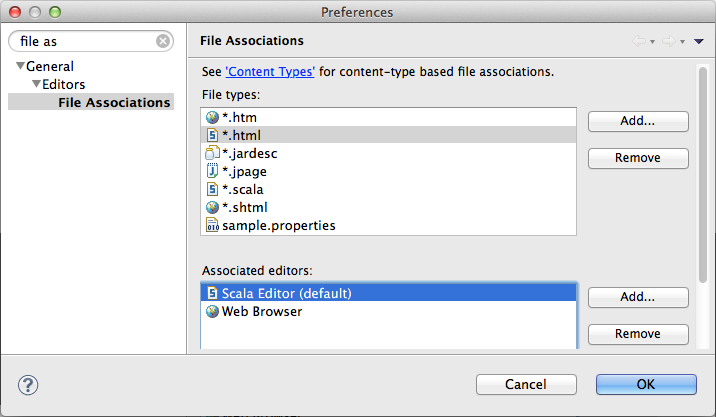
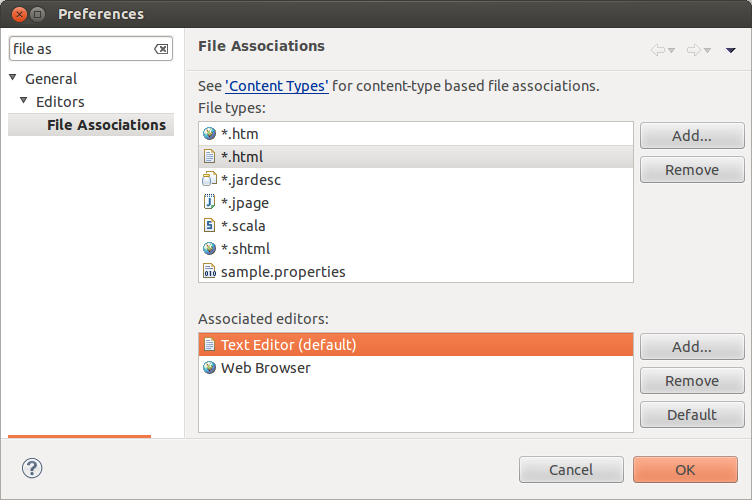
Update play tutorial to not use the Scala editor
It is not working anymore in Scala IDE 2.1.
Modified the step to use the Text Editor instead.

Changed region(s): [[0.0, 0.0, 1.0, 0.9664], [0.0, 0.9664, 1.0, 1.0], [0.0, 0.8417, 0.2151, 0.9664]]

diff --git a/src/sphinx/tutorials/play20scalaide20/index-fr.rst b/src/sphinx/tutorials/play20scalaide20/index-fr.rst
@@ -129,7 +129,7 @@ Changer quelques préférences dans Eclipse va permettre de rendre son utilisati
        :width: 100%
        :target: ../../_images/play20-scalaide20-13.png
 
-*   Si vous n'avez pas la version *Web Development Tools* d'Eclipse installée, Eclipse ouvre les fichiers ``.html`` dans un navigateur. Configurer Eclipse pour qu'il utilise le ``Scala Editor`` à la place.
+*   Si vous n'avez pas la version *Web Development Tools* d'Eclipse installée, Eclipse ouvre les fichiers ``.html`` dans un navigateur. Configurer Eclipse pour qu'il utilise le ``Text Editor`` à la place.
 
     .. image:: images/play20-scalaide20-14.png
        :alt: HTML file in text editor

diff --git a/src/sphinx/tutorials/play20scalaide20/index.rst b/src/sphinx/tutorials/play20scalaide20/index.rst
@@ -123,7 +123,7 @@ Setting a few preferences in Eclipse will make everything easier to use.
        :width: 100%
        :target: ../../_images/play20-scalaide20-13.png
 
-*   If you don't have the Web Development Tools for Eclipse installed, Eclipse opens ``.html`` files in a web browser. Configure it to use the ``Scala Editor`` instead.
+*   If you don't have the Web Development Tools for Eclipse installed, Eclipse opens ``.html`` files in a web browser. Configure it to use the ``Text Editor`` instead.
 
     .. image:: images/play20-scalaide20-14.png
        :alt: HTML file in text editor
